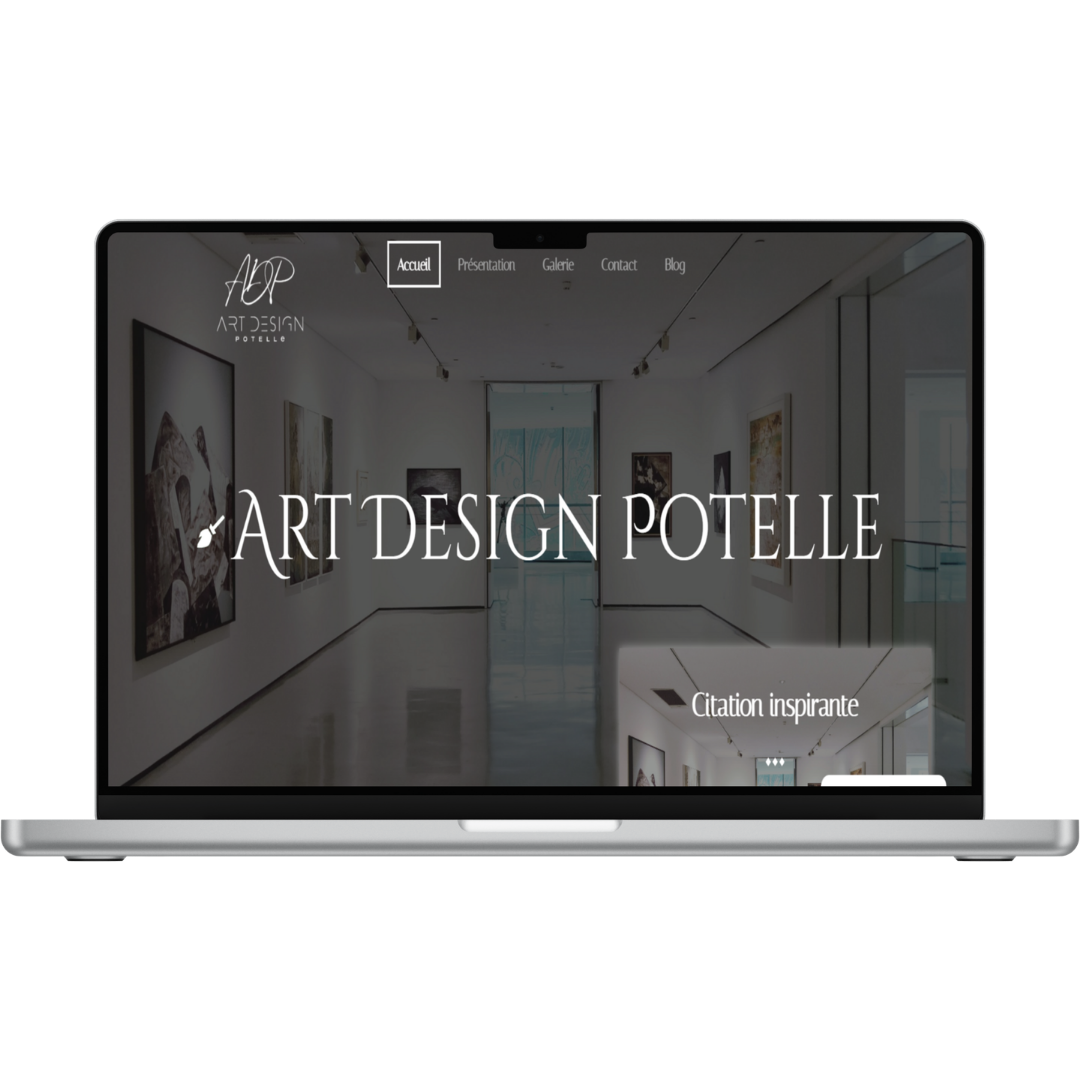
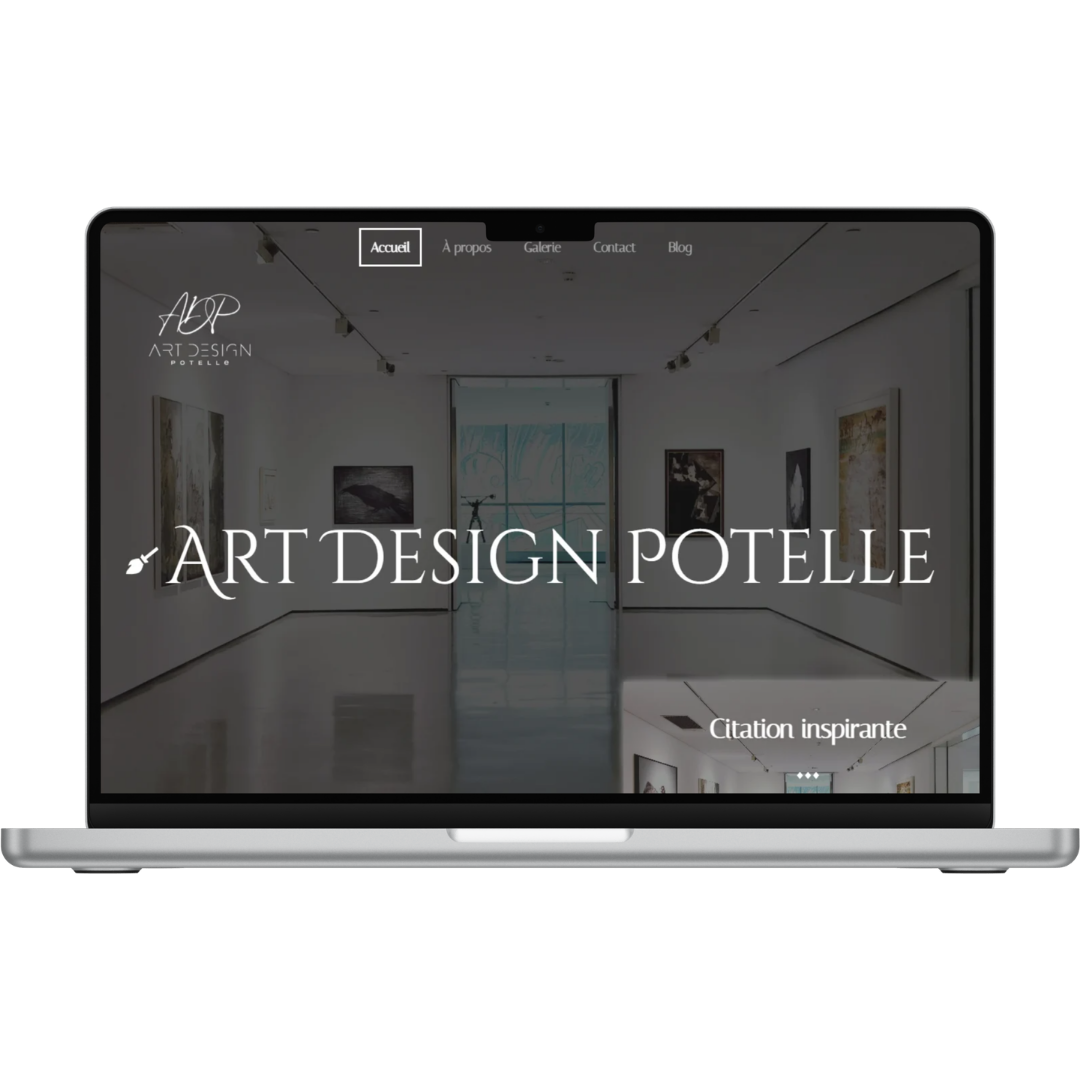
Mise à jour images Art Design Potelle

diff --git a/portfolio-details11.html b/portfolio-details11.html
@@ -113,13 +113,15 @@
         <div class="portfolio-details-container">
 
           <div class="owl-carousel portfolio-details-carousel">
-            <img src="assets/img/portfolio_caro/art_design_potelle/capture11.png" class="img-fluid" alt="studio_photographie_capture11">
-            <img src="assets/img/portfolio_caro/art_design_potelle/capture12.png" class="img-fluid" alt="studio_photographie_capture12">
-            <img src="assets/img/portfolio_caro/art_design_potelle/capture13.png" class="img-fluid" alt="studio_photographie_capture13">
-            <img src="assets/img/portfolio_caro/art_design_potelle/capture14.png" class="img-fluid" alt="studio_photographie_capture11">
-            <img src="assets/img/portfolio_caro/art_design_potelle/capture15.png" class="img-fluid" alt="studio_photographie_capture12">
-            <img src="assets/img/portfolio_caro/art_design_potelle/capture16.png" class="img-fluid" alt="studio_photographie_capture13">
-            <img src="assets/img/portfolio_caro/art_design_potelle/capture17.png" class="img-fluid" alt="studio_photographie_capture13">
+            <img src="assets/img/portfolio_caro/art_design_potelle/capture11.png" class="img-fluid" alt="art_design_potelle_capture11">
+            <img src="assets/img/portfolio_caro/art_design_potelle/capture12.png" class="img-fluid" alt="art_design_potelle_capture12">
+            <img src="assets/img/portfolio_caro/art_design_potelle/capture13.png" class="img-fluid" alt="art_design_potelle_capture13">
+            <img src="assets/img/portfolio_caro/art_design_potelle/capture14.png" class="img-fluid" alt="art_design_potelle_capture14">
+            <img src="assets/img/portfolio_caro/art_design_potelle/capture15.png" class="img-fluid" alt="art_design_potelle_capture15">
+            <img src="assets/img/portfolio_caro/art_design_potelle/capture16.png" class="img-fluid" alt="art_design_potelle_capture16">
+            <img src="assets/img/portfolio_caro/art_design_potelle/capture17.png" class="img-fluid" alt="art_design_potelle_capture17">
+            <img src="assets/img/portfolio_caro/art_design_potelle/capture18.png" class="img-fluid" alt="art_design_potelle_capture18">
+            <img src="assets/img/portfolio_caro/art_design_potelle/capture19.png" class="img-fluid" alt="art_design_potelle_capture19">
           </div>
 
           <div class="portfolio-info">
@@ -145,8 +147,10 @@
           🖼 Galerie avec une page dédiée à chaque tableau (description, visuel, détails)<br>
           ✉ Formulaire de contact pour faciliter les échanges<br>
           📝 Blog permettant de partager actualités et inspirations artistiques<br>
-          Ce projet m’a permis de travailler la mise en valeur visuelle, la structuration d’un contenu artistique et la création d’une expérience utilisateur fluide et immersive. Art Design Potelle illustre ma capacité à concevoir un site élégant, cohérent et adapté à la présentation d’un univers créatif.
+          🔍 Optimisation SEO : Référencement réalisé avec Yoast SEO et indexation via Google Search Console<br>
+          🌐 Hébergement & Publication : Site web en ligne publié sur Infinityfree<br>
           </p>
+          <p>Ce projet m’a permis de travailler la mise en valeur visuelle, la structuration d’un contenu artistique et la création d’une expérience utilisateur fluide et immersive. Art Design Potelle illustre ma capacité à concevoir un site élégant, cohérent et adapté à la présentation d’un univers créatif.</p>
         </div>
 
       </div>

diff --git a/portfolio-details6.html b/portfolio-details6.html
@@ -139,11 +139,11 @@
           🎨 Amélioration du rendu visuel et fonctionnel afin d’optimiser l’expérience utilisateur<br>
           📐 Respect de la cohérence graphique et éditoriale dans l’environnement TYPO3<br>
           🤝 Collaboration avec l’équipe de développement pour garantir une intégration fluide et conforme aux besoins du projet<br>
-          Ce projet m’a permis de renforcer mes compétences en intégration web, en manipulation de TYPO3 et en travail en équipe dans un contexte professionnel. Il illustre ma capacité à contribuer efficacement à un site en production tout en respectant les exigences techniques et ergonomiques du CMS.
           </p>
+          <p>Ce projet m’a permis de renforcer mes compétences en intégration web, en manipulation de TYPO3 et en travail en équipe dans un contexte professionnel. Il illustre ma capacité à contribuer efficacement à un site en production tout en respectant les exigences techniques et ergonomiques du CMS.</p>
         </div>
 
-      </div>
+        </div>
     </section><!-- End Portfolio Details Section -->
 
   </main><!-- End #main -->

diff --git a/portfolio-details2.html b/portfolio-details2.html
@@ -144,9 +144,9 @@
           👤 Interfaces d’inscription et de connexion pour permettre aux utilisateurs de créer et gérer leurs comptes<br>
           🧩 CRUD des profils clients : modification des informations utilisateurs et personnalisation des profils<br>
           🛒 Panier e-commerce permettant la sélection, la gestion et la validation des échanges ou achats<br>
-          Ce projet m’a permis de renforcer mes compétences en développement MVC, en gestion d’entités avec Doctrine, en sécurité, ainsi qu’en création d’interfaces fonctionnelles et cohérentes.
-          EterelZ illustre ma capacité à concevoir une application web complète, performante et orientée utilisateur grâce à Symfony 5.
           </p>
+          <p>Ce projet m’a permis de renforcer mes compétences en développement MVC, en gestion d’entités avec Doctrine, en sécurité, ainsi qu’en création d’interfaces fonctionnelles et cohérentes.
+          EterelZ illustre ma capacité à concevoir une application web complète, performante et orientée utilisateur grâce à Symfony 5.</p>
         </div>
 
       </div>

diff --git a/portfolio-details1.html b/portfolio-details1.html
@@ -145,9 +145,9 @@
           🛒 Panier e-commerce pour permettre la sélection et la gestion des achats<br>
           🌍 Site multilingue afin d’offrir une navigation adaptée à différents publics<br>
           ✉ Formulaire de contact pour faciliter la communication avec les utilisateurs<br>
-          Ce projet m’a permis de développer mes compétences en création de sites WordPress professionnels, en gestion de contenus, en mise en place d’un parcours utilisateur cohérent et en intégration de fonctionnalités e-commerce.
-          Jarditou représente un exemple concret de ma capacité à concevoir un site complet, moderne et orienté utilisateur.
           </p>
+          <p>Ce projet m’a permis de développer mes compétences en création de sites WordPress professionnels, en gestion de contenus, en mise en place d’un parcours utilisateur cohérent et en intégration de fonctionnalités e-commerce.
+          Jarditou représente un exemple concret de ma capacité à concevoir un site complet, moderne et orienté utilisateur.</p>
         </div>
 
       </div>

diff --git a/portfolio-details3.html b/portfolio-details3.html
@@ -141,9 +141,9 @@
           <p style="text-align: justify;">
           👤 Interfaces d’inscription et de connexion pour permettre aux utilisateurs de créer et d'accéder à leurs espaces<br>
           💿 CRUD des produits offrant la possibilité d’ajouter, modifier, supprimer et consulter les articles mis en vente<br>
-          Ce projet m’a permis de renforcer ma maîtrise de PHP côté serveur, de la gestion des sessions, ainsi que de la communication avec une base de données via SQL.
-          Velvet Records démontre ma capacité à concevoir une application web structurée, autonome et fonctionnelle à partir de technologies fondamentales.
           </p>
+          <p>Ce projet m’a permis de renforcer ma maîtrise de PHP côté serveur, de la gestion des sessions, ainsi que de la communication avec une base de données via SQL.
+          Velvet Records démontre ma capacité à concevoir une application web structurée, autonome et fonctionnelle à partir de technologies fondamentales.</p>
         </div>
 
       </div>

diff --git a/portfolio-details.html b/portfolio-details.html
@@ -144,9 +144,9 @@
           👤 Gestion des utilisateurs : interfaces d’inscription et de connexion sécurisées<br>
           📦 Gestion des produits (CRUD) : ajout, modification, consultation et suppression des articles<br>
           🛒 Panier e-commerce : sélection des produits et gestion des achats<br>
-          Ce projet m’a permis de renforcer mes compétences sur l’architecture MVC, la gestion de bases de données et la conception d’une expérience utilisateur fluide.
-          Il illustre ma capacité à créer une application web complète, de l’interface à la logique métier.
           </p>
+          <p>Ce projet m’a permis de renforcer mes compétences sur l’architecture MVC, la gestion de bases de données et la conception d’une expérience utilisateur fluide.
+          Il illustre ma capacité à créer une application web complète, de l’interface à la logique métier.</p>
         </div>
 
       </div>

diff --git a/portfolio-details7.html b/portfolio-details7.html
@@ -154,9 +154,7 @@
           🎨 Concevoir des écrans cohérents, responsives et esthétiques<br>
           🔁 Prototyper les principales interactions  afin d’illustrer le fonctionnement du futur site<br>
           </p>
-          Ce projet m’a permis de renforcer mes compétences en UX/UI design, en modélisation d’interfaces complètes et en utilisation avancée de Figma.
-          Il reflète ma capacité à imaginer une expérience utilisateur fluide, structurée et adaptée aux besoins d’une librairie en ligne moderne.
-          </p>
+          <p>Ce projet m’a permis de renforcer mes compétences en UX/UI design, en modélisation d’interfaces complètes et en utilisation avancée de Figma. Il reflète ma capacité à imaginer une expérience utilisateur fluide, structurée et adaptée aux besoins d’une librairie en ligne moderne.</p>
         </div>
 
       </div>

diff --git a/portfolio-details8.html b/portfolio-details8.html
@@ -140,8 +140,8 @@
           <p style="text-align: justify;">
           L’objectif du projet était de créer une plateforme moderne, claire et intuitive, permettant aux utilisateurs de découvrir les formations, de s’inscrire facilement et d’accéder rapidement aux contenus pédagogiques.
           Graphimeo m’a permis de mettre en pratique mes compétences en WordPress, en création de pages dynamiques, en organisation d’un catalogue de formation, ainsi qu’en design orienté utilisateur.
-          Ce projet illustre ma capacité à concevoir un site professionnel, structuré et parfaitement adapté aux besoins de l’apprentissage en ligne.
           </p>
+          <p>Ce projet illustre ma capacité à concevoir un site professionnel, structuré et parfaitement adapté aux besoins de l’apprentissage en ligne</p>
         </div>
 
       </div>

diff --git a/portfolio-details10.html b/portfolio-details10.html
@@ -138,8 +138,8 @@
           🧭 Page de présentation pour présenter l’univers, la démarche et les voyages<br>
           📝 Blog permettant la publication et la gestion d’articles illustrés<br>
           ✉ Formulaire de contact pour faciliter les échanges avec les visiteurs<br>
-          Ce projet m’a permis de travailler à la fois l’aspect éditorial, la mise en valeur visuelle des contenus. tudio Photographie illustre ma capacité à créer un site esthétique, structuré et fonctionnel, adapté à un projet créatif.
           </p>
+          <p>Ce projet m’a permis de travailler à la fois l’aspect éditorial, la mise en valeur visuelle des contenus. Studio Photographie illustre ma capacité à créer un site esthétique, structuré et fonctionnel, adapté à un projet créatif.</p>
         </div>
 
       </div>

diff --git a/portfolio-details9.html b/portfolio-details9.html
@@ -144,9 +144,9 @@
           🎯 Pop-ups promotionnels pour mettre en avant les offres commerciales et dynamiser les ventes<br> 
           ✉ Formulaire de contact pour faciliter les échanges avec les clientes<br>
           🛒 Panier e-commerce avec affichage détaillé de la commande et de son récapitulatif<br> 
-          💳 Paiement en ligne<br> 
-          Ce projet met en avant ma capacité à concevoir un site marchand complet, esthétique et fonctionnel sous WordPress, répondant aux standards actuels du e-commerce.
+          💳 Paiement en ligne<br>
           </p>
+          <p>Ce projet met en avant ma capacité à concevoir un site marchand complet, esthétique et fonctionnel sous WordPress, répondant aux standards actuels du e-commerce.</p>
         </div>
 
       </div>

diff --git a/index.html b/index.html
@@ -124,7 +124,7 @@
       <div class="container">
 
         <div class="section-title">
-            <h2>A propos</h2>
+            <h2>À propos</h2>
             <div class="col-lg-12 mb-4" data-aos="fade-right">
               <img src="assets/img/profile_caro_8.jpg" id="img_profile" class="img-fluid" alt="Photo profil">
             </div>
